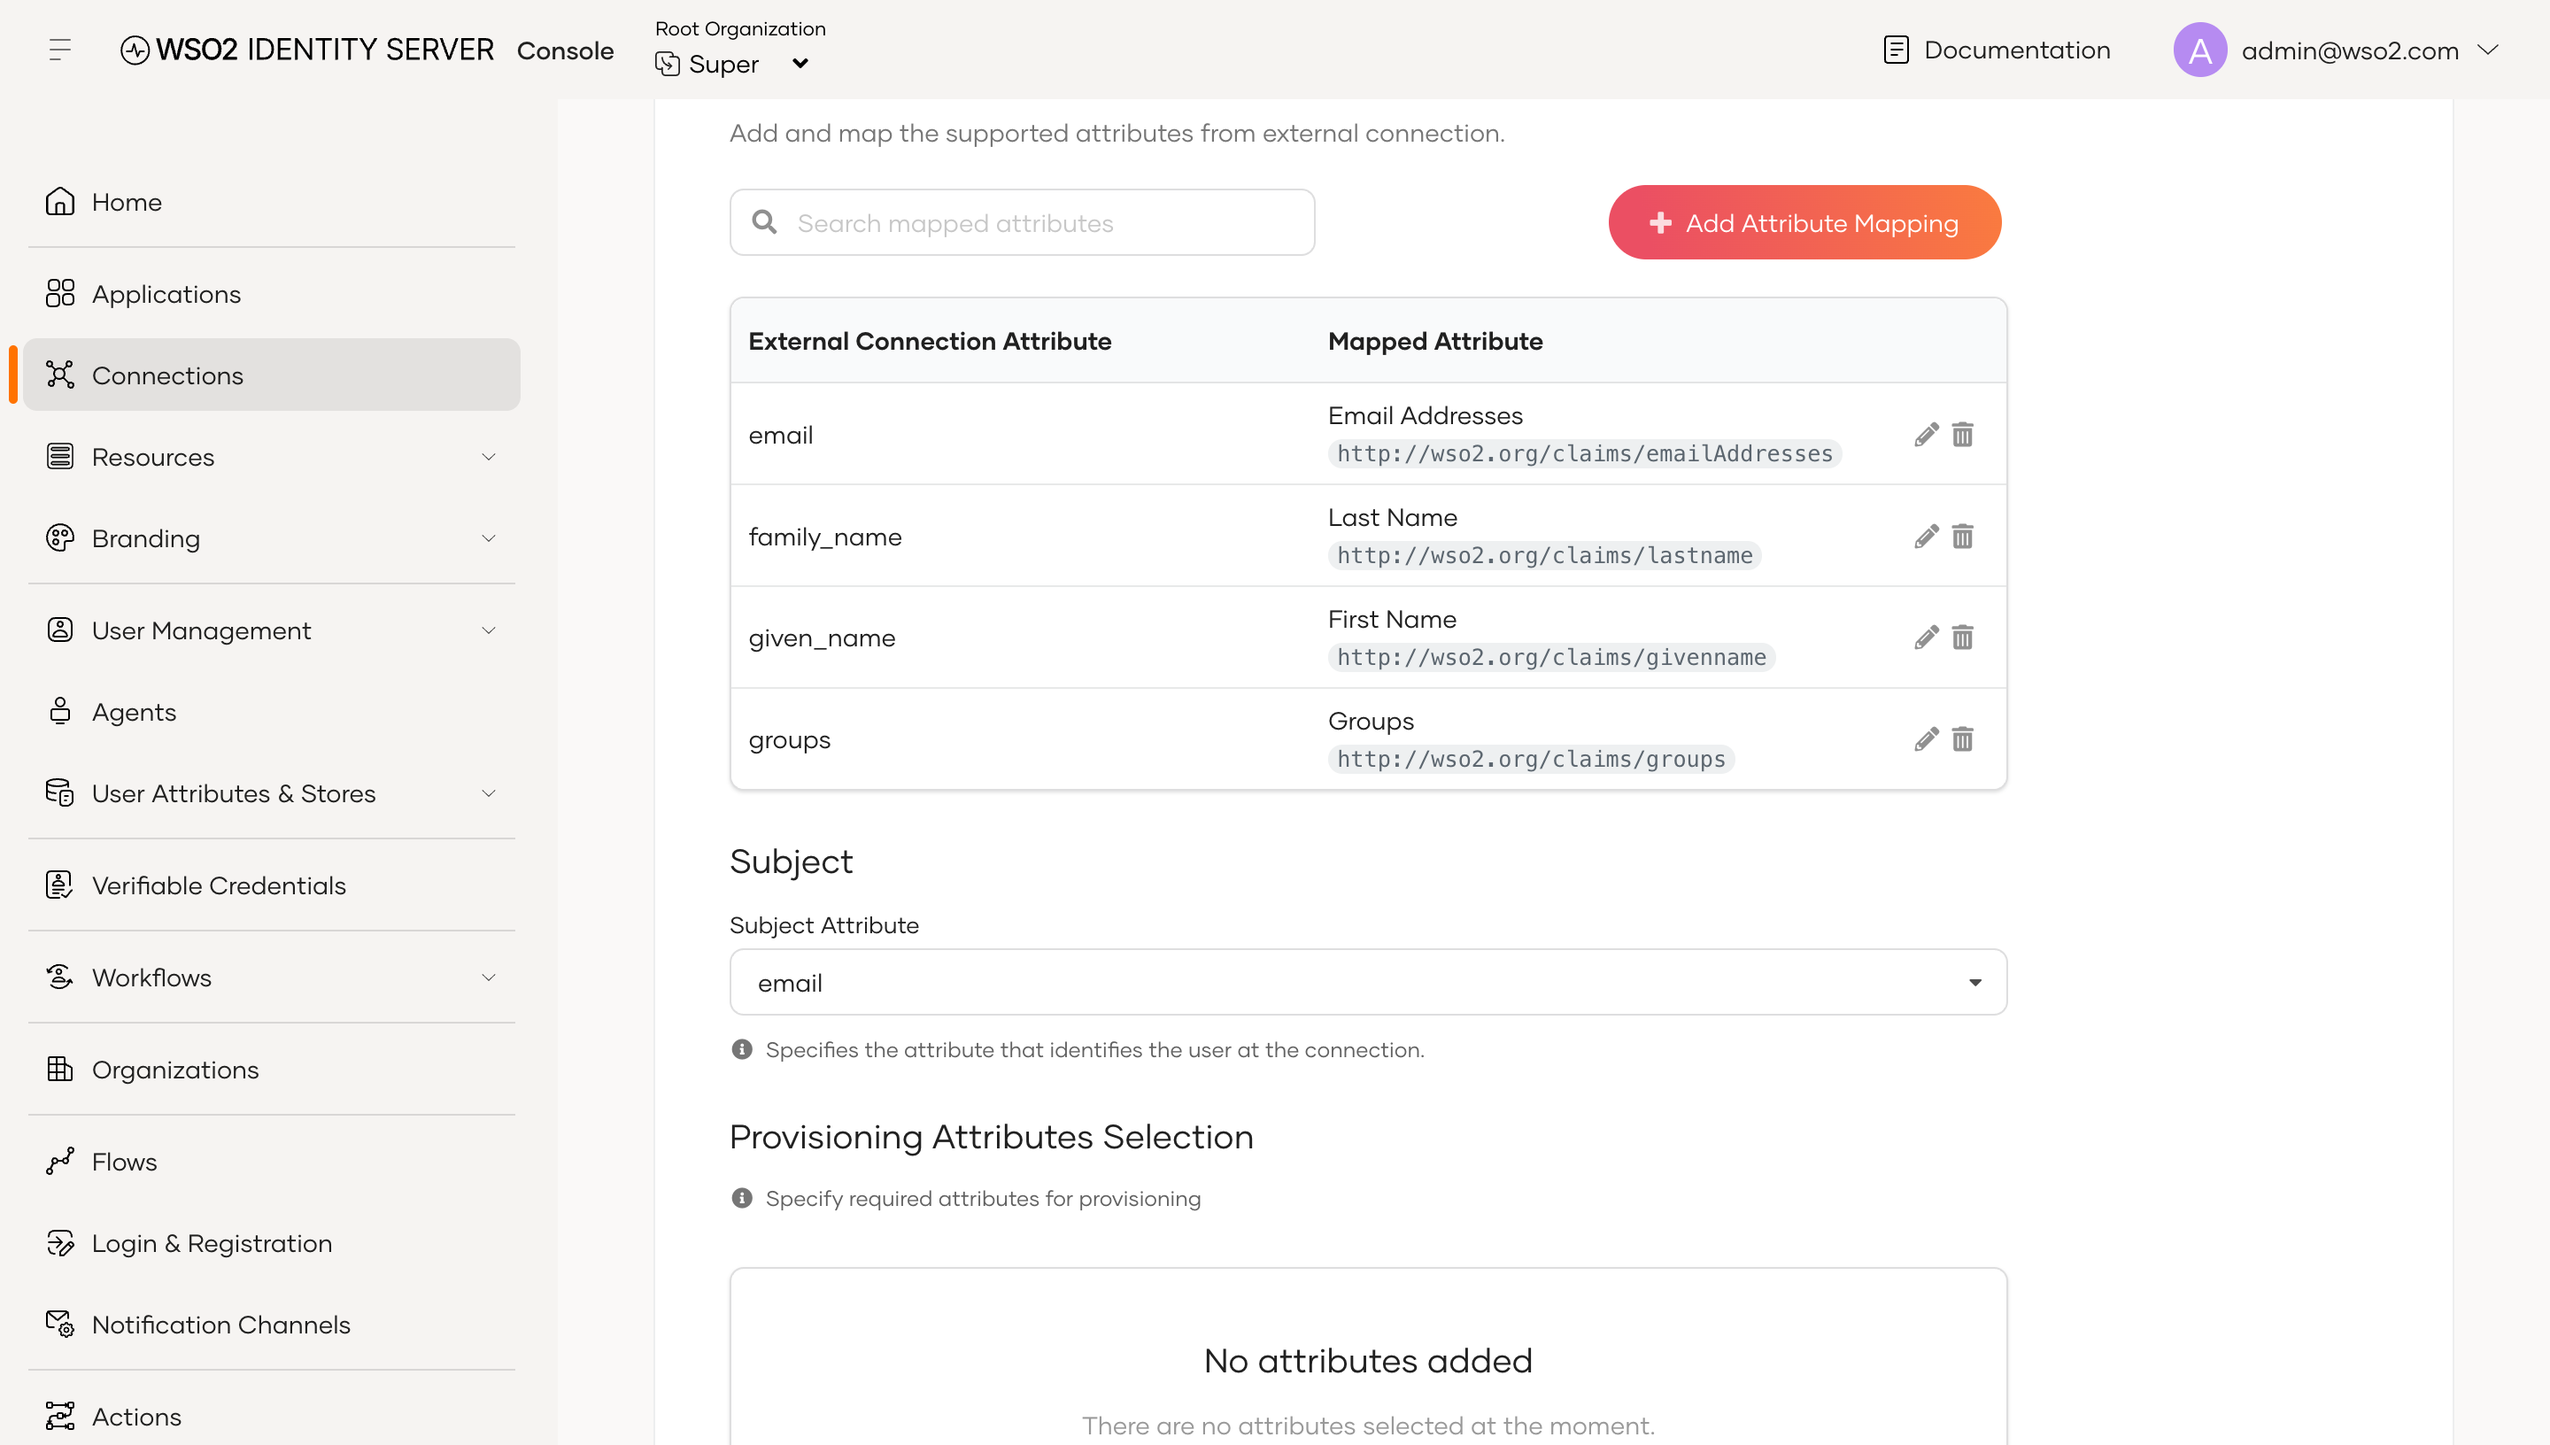
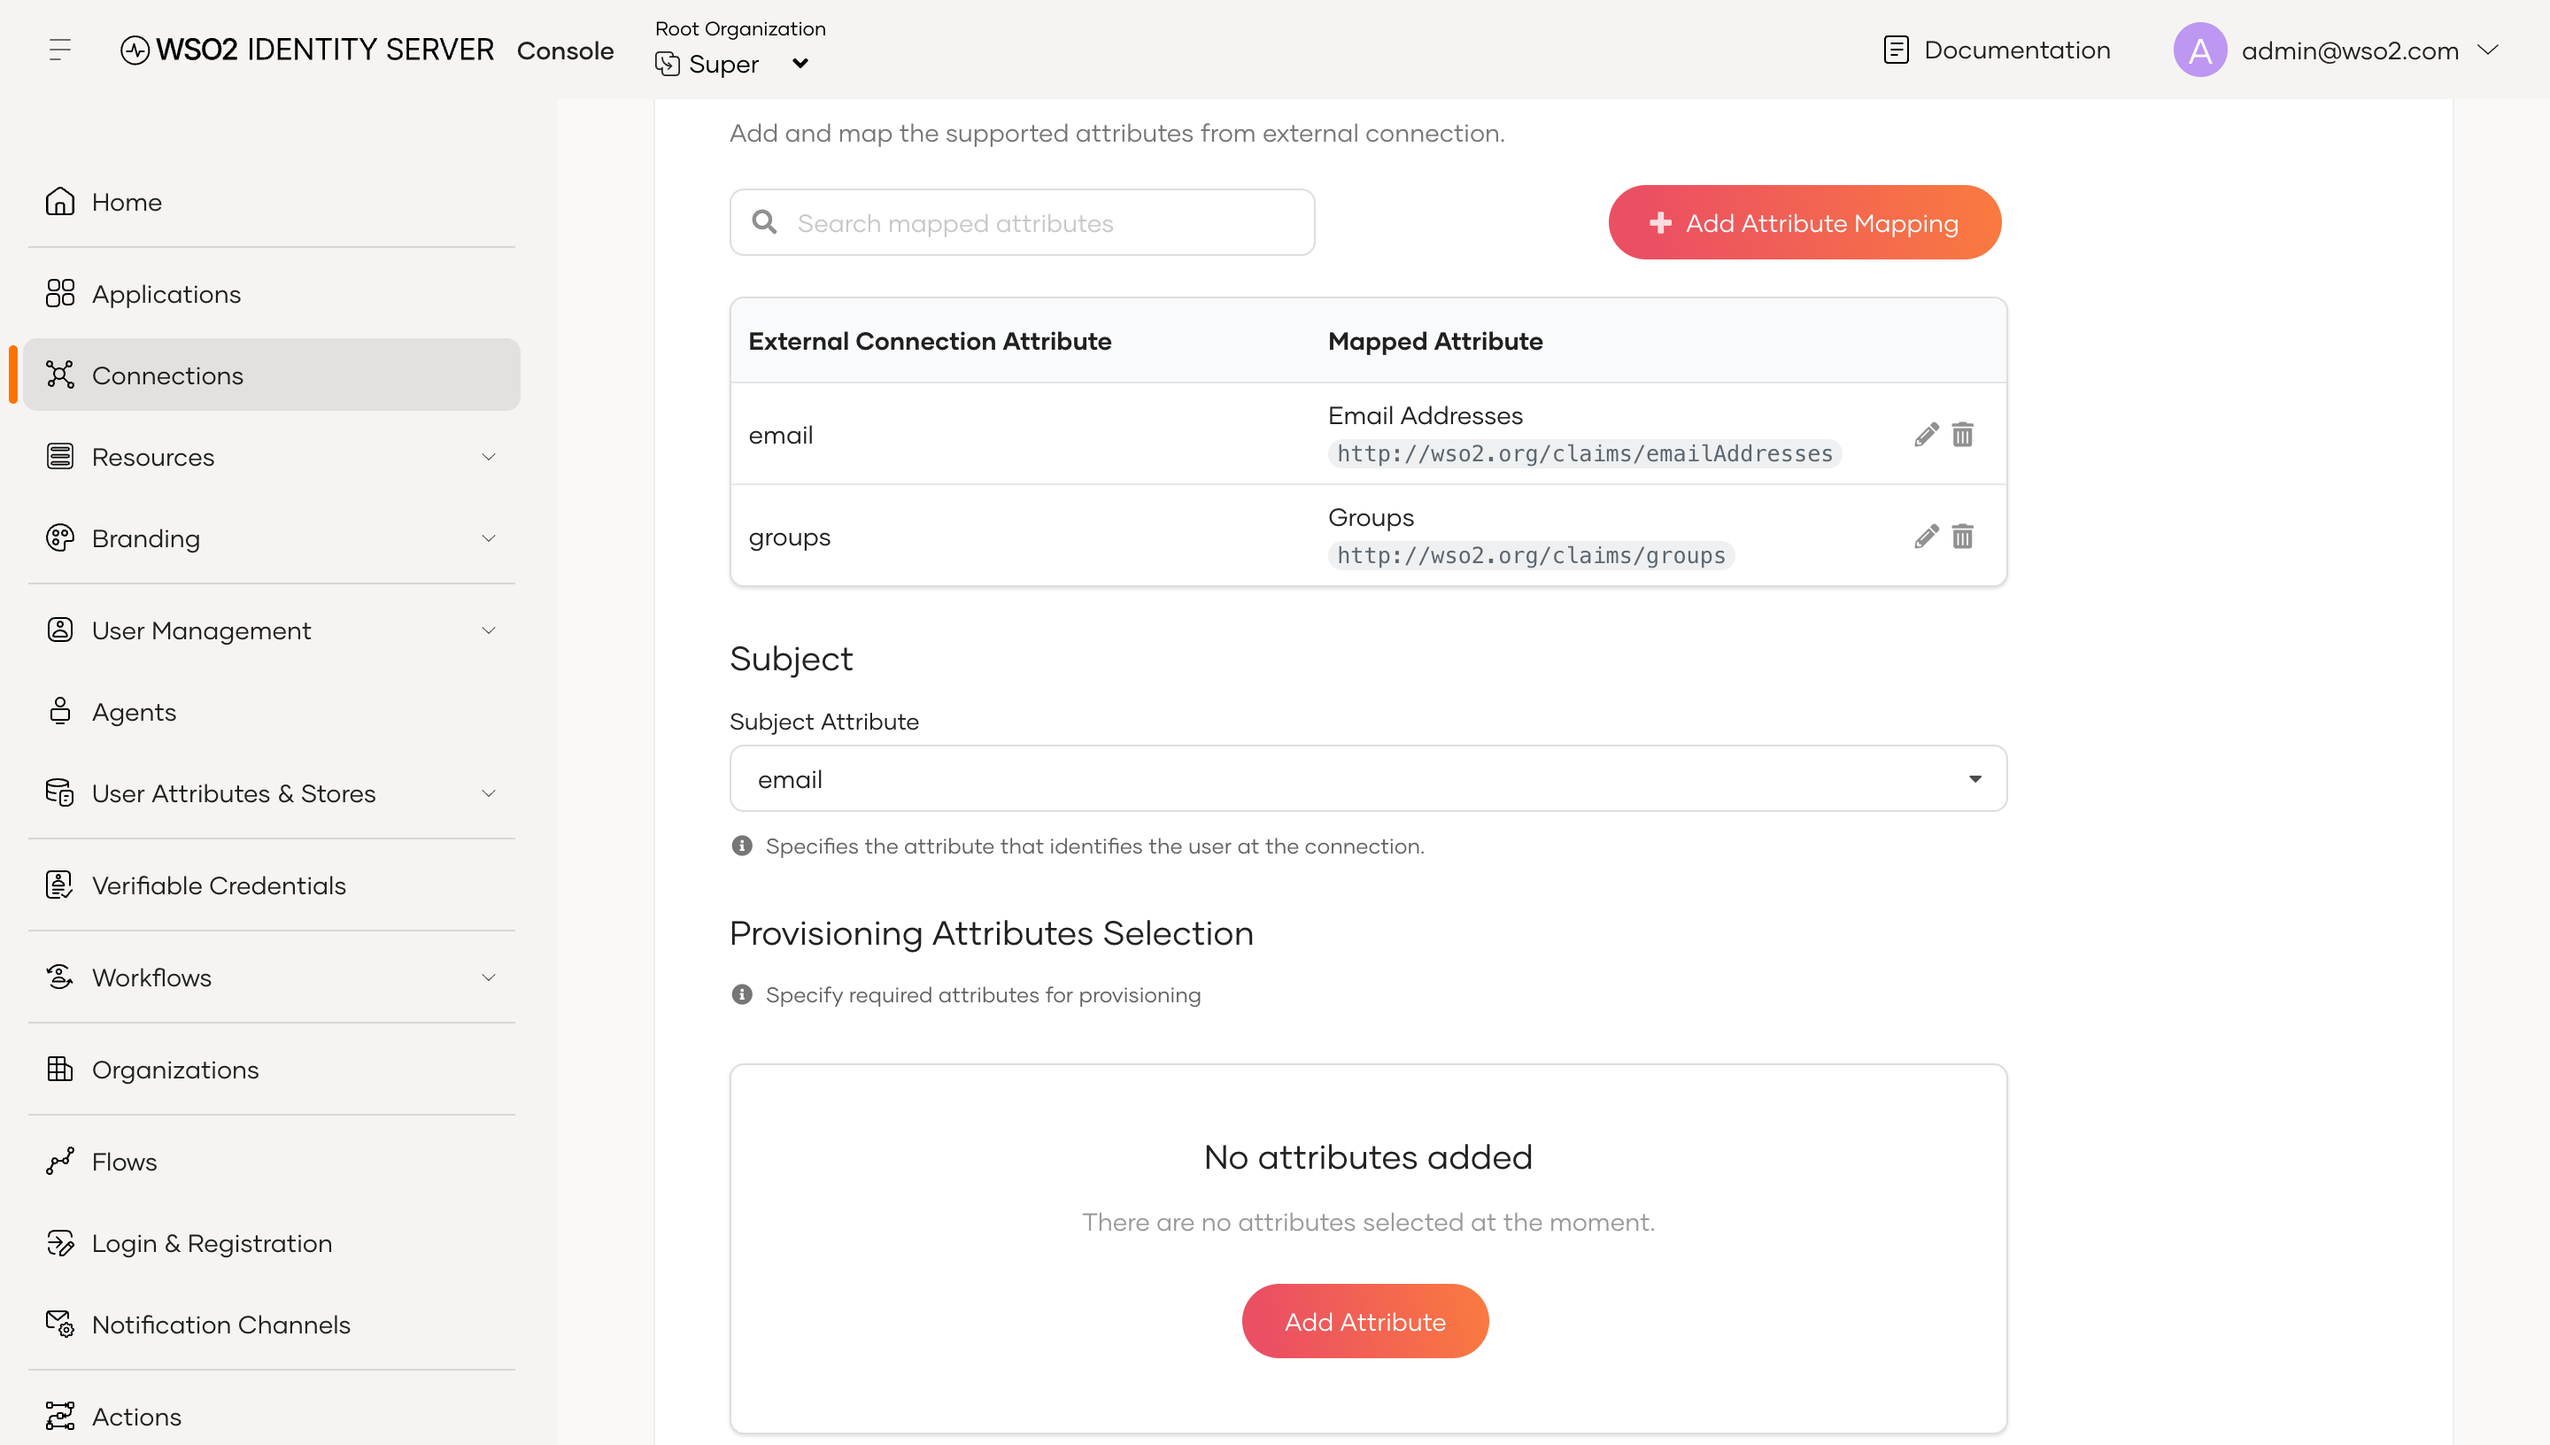
Add space in-between the sentence and screenshots in docs

diff --git a/docs/src/css/custom.css b/docs/src/css/custom.css
@@ -83,7 +83,11 @@ html[class*='docs-doc-id-learn/federated-login/'] .markdown li > p {
   margin-bottom: 0.5rem;
 }
 
-html[class*='docs-doc-id-learn/federated-login/'] .markdown li > .doc-figure,
+html[class*='docs-doc-id-learn/federated-login/'] .markdown li > .doc-figure {
+  margin-top: 1rem;
+  margin-bottom: 1rem;
+}
+
 html[class*='docs-doc-id-learn/federated-login/'] .markdown li > table,
 html[class*='docs-doc-id-learn/federated-login/'] .markdown li > .theme-admonition {
   margin-bottom: 0.75rem;

diff --git a/docs/content/learn/federated-login/asgardeo.md b/docs/content/learn/federated-login/asgardeo.md
@@ -54,10 +54,10 @@ Configure the user attributes that Asgardeo shares with WSO2 Identity Server.
 
 2. Select **Email** and mark it as **Mandatory**.
 
-3. Select **Profile** and **Groups**.
+3. Select **Groups**. Leave the other scopes cleared, because DPDP needs only the user's email address and groups.
 
    <figure className="doc-figure">
-     <img src={require('@site/assets/images/learn/federated-login/asgardeo-user-attributes.png').default} alt="User Attribute Selection with the Email, Groups and Profile scopes selected" />
+     <img src={require('@site/assets/images/learn/federated-login/asgardeo-user-attributes.png').default} alt="User Attribute Selection with only the Email and Groups scopes selected" />
    </figure>
 
    :::note
@@ -125,13 +125,13 @@ Next, add Asgardeo as an identity provider (IdP) in WSO2 Identity Server.
 5. Open the new connection, select the **Settings** tab, enter the following values, and click **Update**.
 
    <figure className="doc-figure">
-     <img src={require('@site/assets/images/learn/federated-login/asgardeo-is-connection-settings.png').default} alt="Connection Settings tab showing the Authorized redirect URL, the Logout Endpoint URL and the openid, email, profile and groups scopes" />
+     <img src={require('@site/assets/images/learn/federated-login/asgardeo-is-connection-settings.png').default} alt="Connection Settings tab showing the Authorized redirect URL, the Logout Endpoint URL and the openid, email and groups scopes" />
    </figure>
 
    | Parameter | Description |
    | :--- | :--- |
    | Logout Endpoint URL | `https://api.asgardeo.io/t/<ASGARDEO_ORG>/oidc/logout` |
-   | Scopes | `openid email profile groups` |
+   | Scopes | `openid email groups`. Add `email` and `groups` next to the default `openid`. |
 
    :::tip
    The **Authorized redirect URL** shown here must exactly match the redirect URL registered in Asgardeo. If the values differ, update the Asgardeo application to use the URL shown in WSO2 Identity Server.
@@ -145,19 +145,17 @@ Map the claims received from Asgardeo to the corresponding WSO2 Identity Server 
 
 1. On the **Asgardeo** connection, go to the **Attributes** tab.
 
-2. Click **Add Attribute Mapping** and configure the following mappings. If a claim isn't in the list, type it in the **External IdP Attribute** field.
+2. Click **Add Attribute Mapping** and configure the following mappings.
 
    | Asgardeo claim | WSO2 Identity Server claim | Purpose |
    | :--- | :--- | :--- |
    | `email` | Email Addresses (`http://wso2.org/claims/emailAddresses`) | Identifies the user |
-   | `given_name` | First Name (`http://wso2.org/claims/givenname`) | The user's first name |
-   | `family_name` | Last Name (`http://wso2.org/claims/lastname`) | The user's last name |
    | `groups` | Groups (`http://wso2.org/claims/groups`) | Role mapping |
 
 3. Set **Subject Attribute** to `email`, then click **Update**. If the **Subject** section doesn't appear, reload the tab after saving the mappings.
 
    <figure className="doc-figure">
-     <img src={require('@site/assets/images/learn/federated-login/asgardeo-is-connection-attributes.png').default} alt="Attributes tab with the email, family_name, given_name and groups mappings and the Subject Attribute set to email" />
+     <img src={require('@site/assets/images/learn/federated-login/asgardeo-is-connection-attributes.png').default} alt="Attributes tab with the email and groups mappings and the Subject Attribute set to email" />
    </figure>
 
 ## Map Asgardeo groups to DPDP roles

diff --git a/docs/content/learn/federated-login/entra-id.md b/docs/content/learn/federated-login/entra-id.md
@@ -1,6 +1,6 @@
 # Add Microsoft Entra ID Login
 
-Integrate Microsoft Entra ID with the DPDP Consent Portal through WSO2 Identity Server to let users sign in with their existing Entra ID accounts. Their Entra ID group memberships determine the DPDP roles assigned to them.
+This section illustrates how to integrate Microsoft Entra ID with the DPDP Consent Portal through WSO2 Identity Server to let users sign in with their existing Entra ID accounts. Their Entra ID group memberships determine the DPDP roles assigned to them.
 
 :::note
 - Before you begin, make sure WSO2 Identity Server 7.3.0 (update level 17 or later) and the DPDP Accelerator are installed. WSO2 Identity Server must also be able to reach `login.microsoftonline.com`.
@@ -52,18 +52,14 @@ Next, create a client secret that WSO2 Identity Server can use to authenticate t
    </figure>
 
    :::note[Important]
-   Copy the generated **Value**, not the **Secret ID**. Entra ID displays the secret value only once, so store it securely. Record the expiry date and replace the secret before it expires. An expired secret stops Entra ID sign-in until it is replaced.
+   Copy the generated **Value**, not the **Secret ID**. Entra ID displays the secret value only once, so store it securely. Record the expiry date and replace the secret before it expires.
    :::
 
 Configure the claims that Microsoft Entra ID includes in the ID token sent to WSO2 Identity Server.
 
 1. Go to **Manage** → **Token configuration**.
 
-2. Click **Add optional claim**, select the **ID** token type, choose `upn`, and click **Add**. If prompted, select **Turn on the Microsoft Graph profile permission** and click **Add**.
-
-   :::note
-   Entra ID doesn't include `upn` in the ID token unless you add it. WSO2 Identity Server maps it to the **Username** attribute, which the Consent Portal uses to identify the signed-in user and match them to their consent records.
-   :::
+2. Click **Add optional claim**, select the **ID** token type, choose `upn` (User Principal Name), and click **Add**. If prompted, select **Turn on the Microsoft Graph profile permission** and click **Add**.
 
 3. Click **Add groups claim**, select **Security groups**, choose **Group ID** as the claim type for the ID token, and click **Add**.
 
